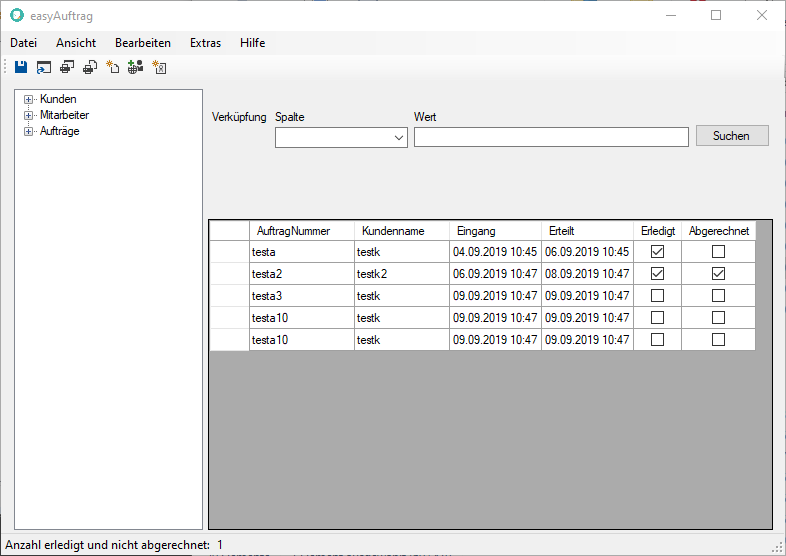
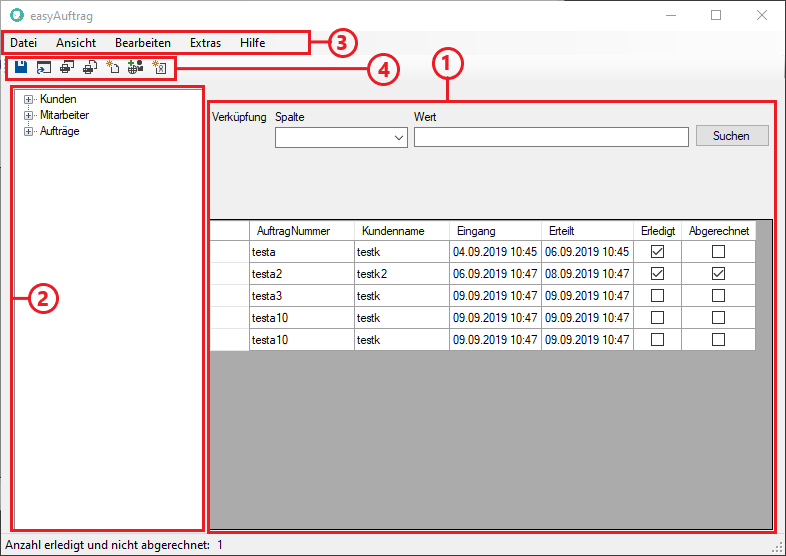
Hilfe Hauptfenster

Changed region(s): [[0.0, 0.0306, 1.0, 1.0], [0.9771, 0.0, 1.0, 0.0306]]

diff --git a/easyAuftrag/Help/Datei/Hauptfenster/Contents.html b/easyAuftrag/Help/Datei/Hauptfenster/Contents.html
@@ -11,18 +11,21 @@
 <body>
 <h1>Hauptfenster</h1>
 
-<div class="img-with-text">
-	<img src="Hauptfenster Übersicht.png" alt="Hauptfenster Übersicht">
-	<p>Das Hauptfenster</p>
-</div>
-Beim Start von easyAuftrag öffnet sich das Hauptfenster.
 <br>Inhalt:
 <ul>
-	<li><a href="Auftragstabelle/Contents.html">Auftragstabelle</a></li>
-	<li><a href="Baumansicht/Contents.html">Baumansicht</a></li>
-	<li><a href="Menüleiste.html">Menüleiste</a></li>
-	<li><a href="Werkzeugleiste.html">Werkzeugleiste</a></li>
+	<li><a href="Auftragstabelle/Contents.html">1. Auftragstabelle</a></li>
+	<li><a href="Baumansicht/Contents.html">2. Baumansicht</a></li>
+	<li><a href="Menüleiste.html">3. Menüleiste</a></li>
+	<li><a href="Werkzeugleiste.html">4. Werkzeugleiste</a></li>
 </ul>
+
+<div class="img-with-text">
+	<img src="Hauptfenster Übersicht.png" alt="Hauptfenster Übersicht">
+</div>
+Beim Start von easyAuftrag öffnet sich das Hauptfenster.
+<br>
+<br>Mögliche Probleme:
+<br>Falls noch keine Konfigurationsdatei existiert, öffnet sich zunächst das Einstellungen Fenster.
 </body>
 
 </html>
